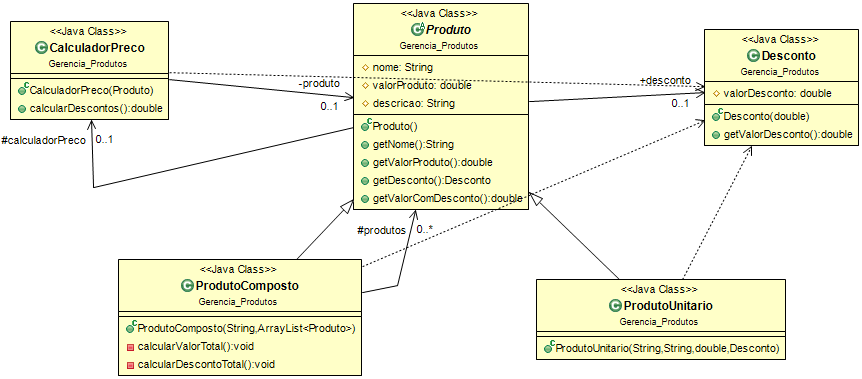
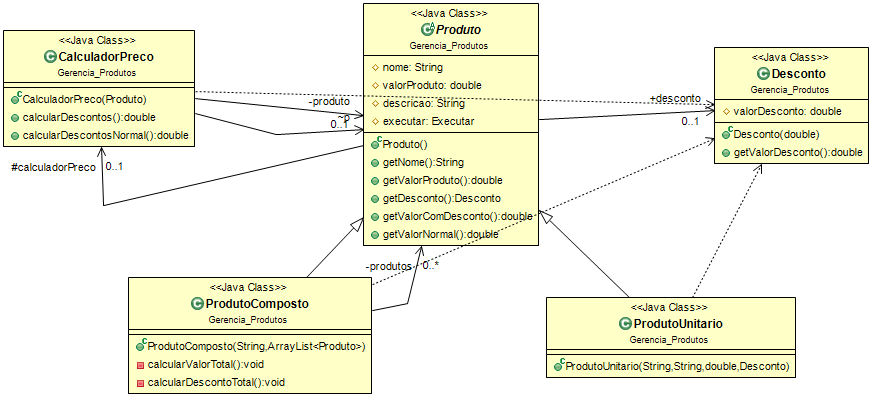
Added methods to print

diff --git a/Loja_Virtual/src/Gerencia_Produtos/Produto.java b/Loja_Virtual/src/Gerencia_Produtos/Produto.java
@@ -1,18 +1,23 @@
 package Gerencia_Produtos;
 
+import java.util.ArrayList;
+
+import Execucao.Executar;
+
 public abstract class Produto {
 	protected String nome;
 	protected double valorProduto;
 	protected String descricao;
 	public Desconto desconto;
 	protected CalculadorPreco calculadorPreco;
-	
+	protected Executar executar;
 	public Produto() {
 	}
 	
 	public String getNome() {
 		return nome;
 	}
+	
 	public double getValorProduto() {
 		return valorProduto;
 	}
@@ -25,5 +30,11 @@ public abstract class Produto {
 		calculadorPreco = new CalculadorPreco(this);
 		return calculadorPreco.calcularDescontos();
 	}
+	
+	public double getValorNormal() {
+		calculadorPreco = new CalculadorPreco(this);
+		return calculadorPreco.calcularDescontosNormal();
+	}
+	
 	
 }

diff --git a/Loja_Virtual/src/Gerencia_Produtos/CalculadorPreco.java b/Loja_Virtual/src/Gerencia_Produtos/CalculadorPreco.java
@@ -1,7 +1,7 @@
 package Gerencia_Produtos;
 
 public class CalculadorPreco {
-		
+	Produto p;
 	private Produto produto;
 	
 	  public CalculadorPreco(Produto produto){
@@ -11,4 +11,9 @@ public class CalculadorPreco {
 	    public double calcularDescontos() {
 	        return  produto.valorProduto - produto.valorProduto*(produto.desconto.valorDesconto/100);//Mudar
 	    }
+	    
+	    public double calcularDescontosNormal() {
+	    	return produto.valorProduto - produto.desconto.valorDesconto;
+	    }
+	    
 }

diff --git a/Loja_Virtual/src/Gerencia_Produtos/ProdutoUnitario.java b/Loja_Virtual/src/Gerencia_Produtos/ProdutoUnitario.java
@@ -8,4 +8,5 @@ public class ProdutoUnitario extends Produto{
 		this.descricao = descricao;
 		this.desconto = desconto;
 	}
+	
 }

diff --git a/Loja_Virtual/src/Gerencia_Produtos/ProdutoComposto.java b/Loja_Virtual/src/Gerencia_Produtos/ProdutoComposto.java
@@ -26,4 +26,6 @@ public class ProdutoComposto extends Produto {
 		}
 		desconto = new Desconto(descontTemp);
 	}
+	
+
 }
